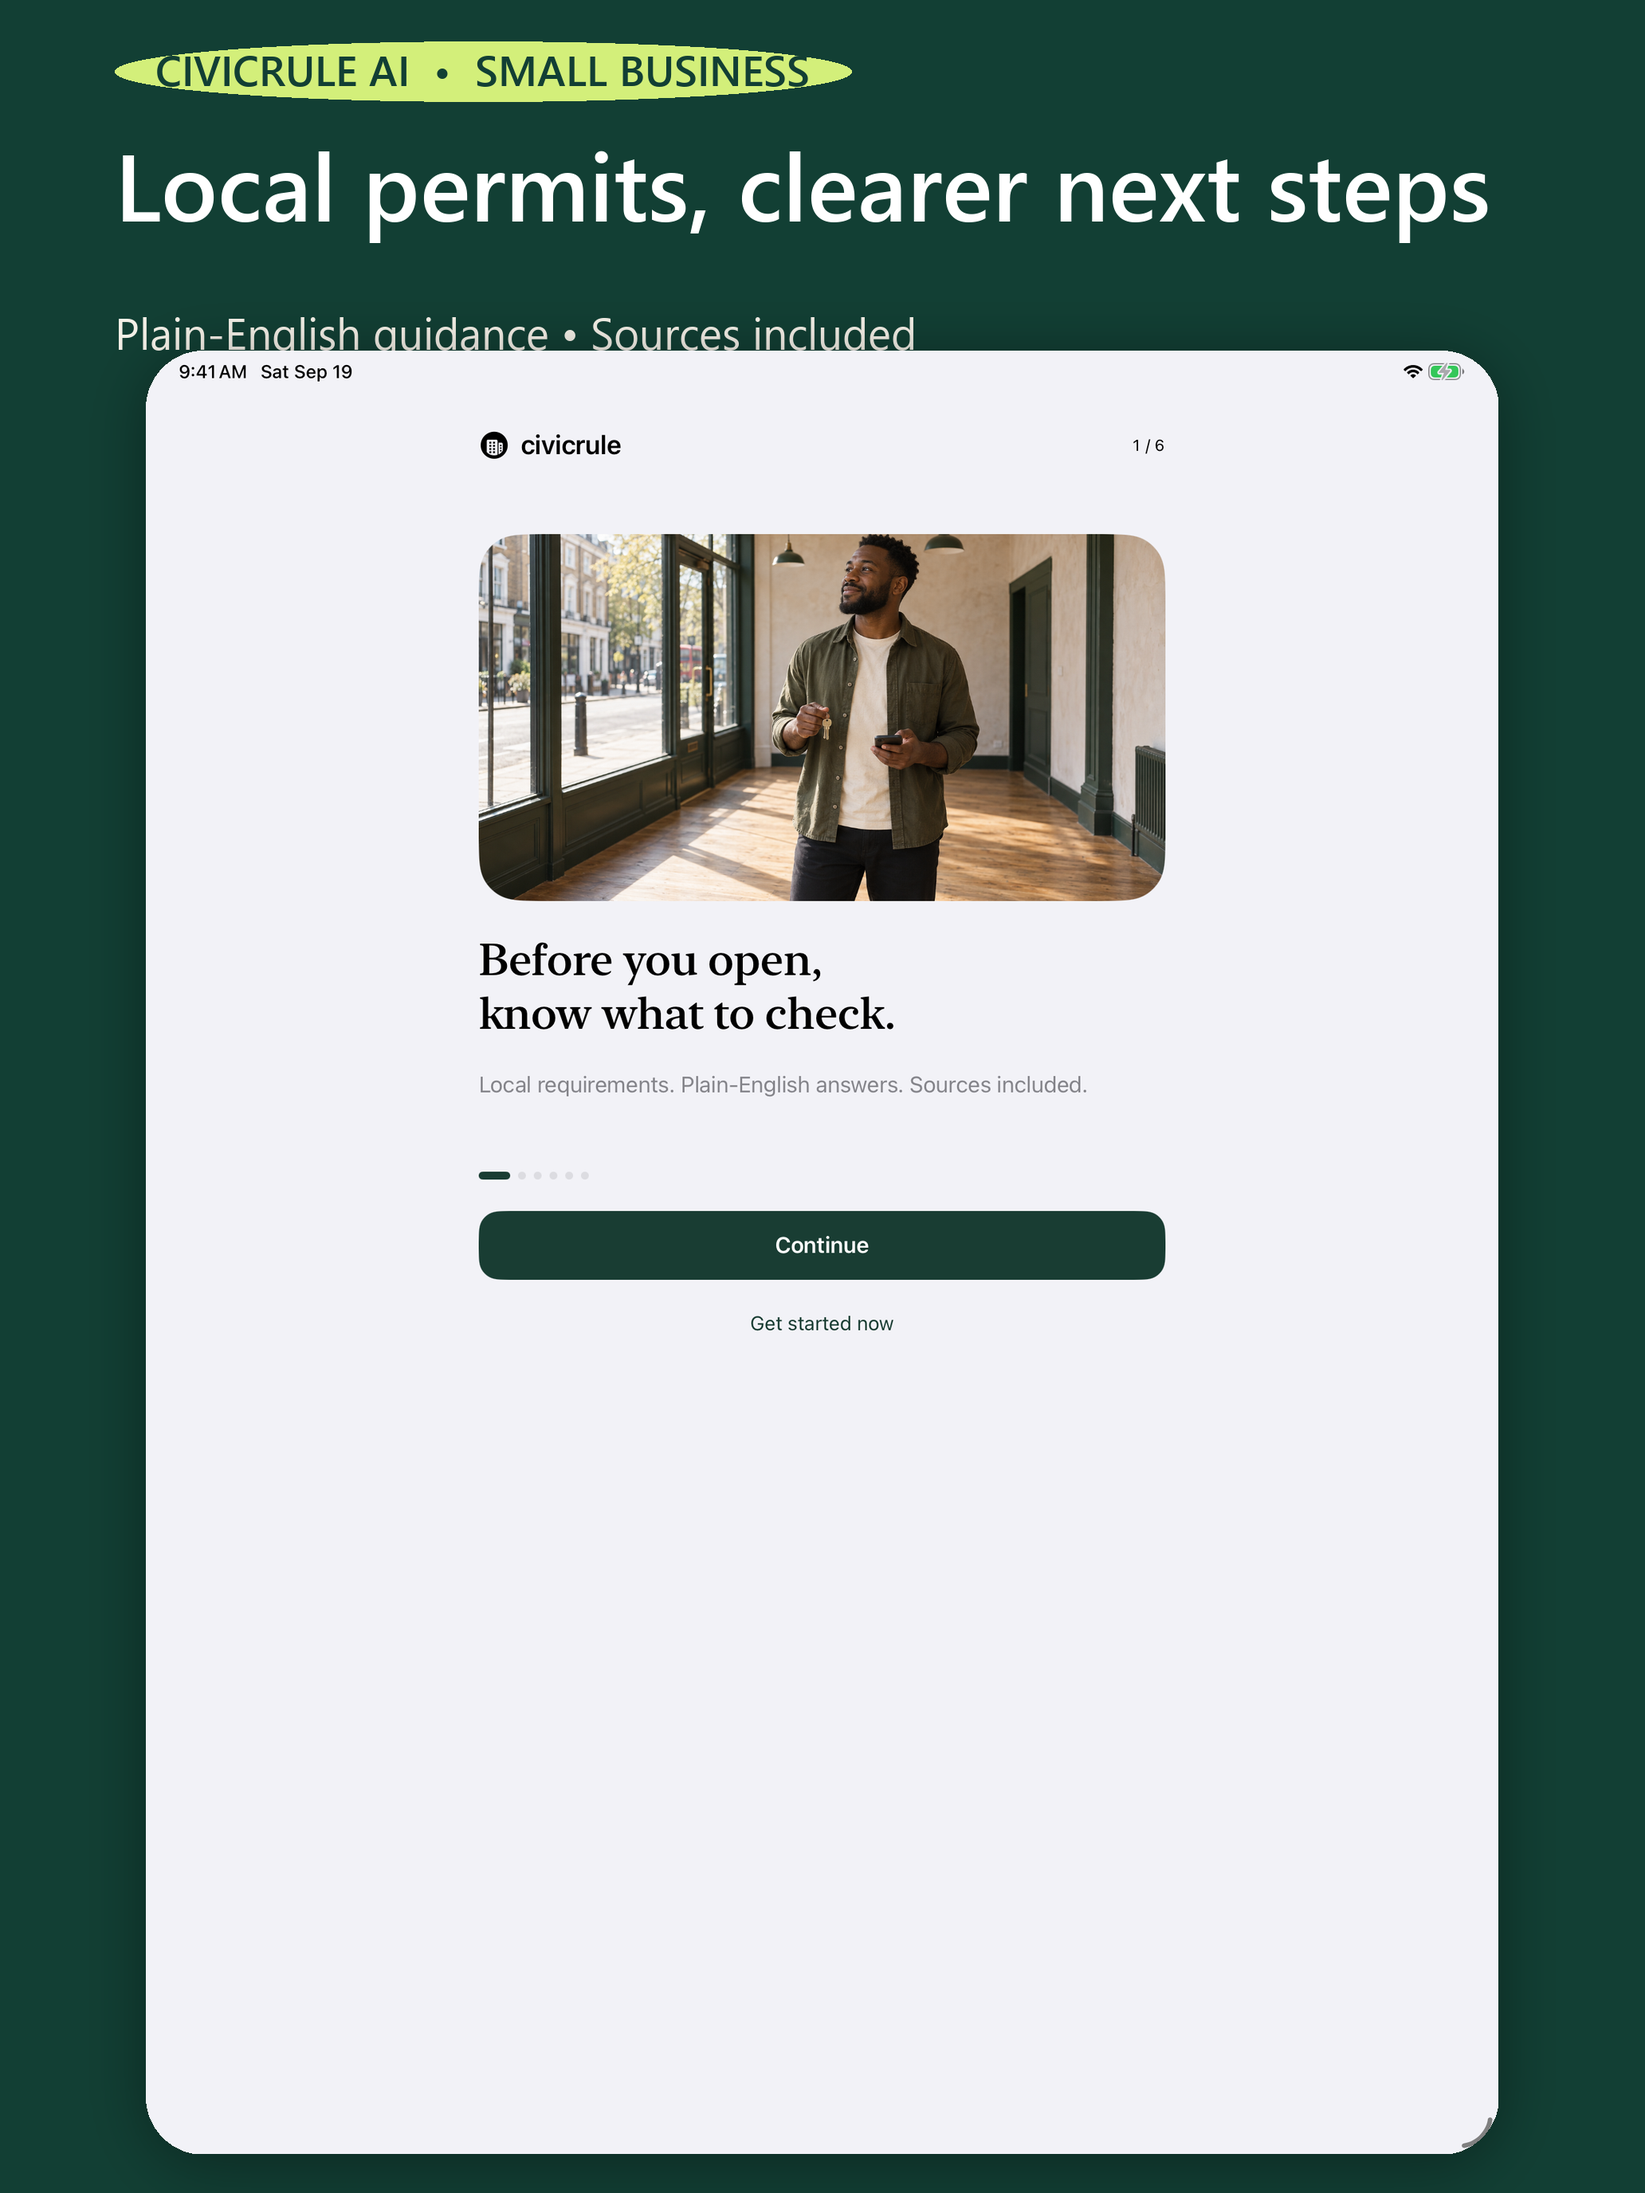
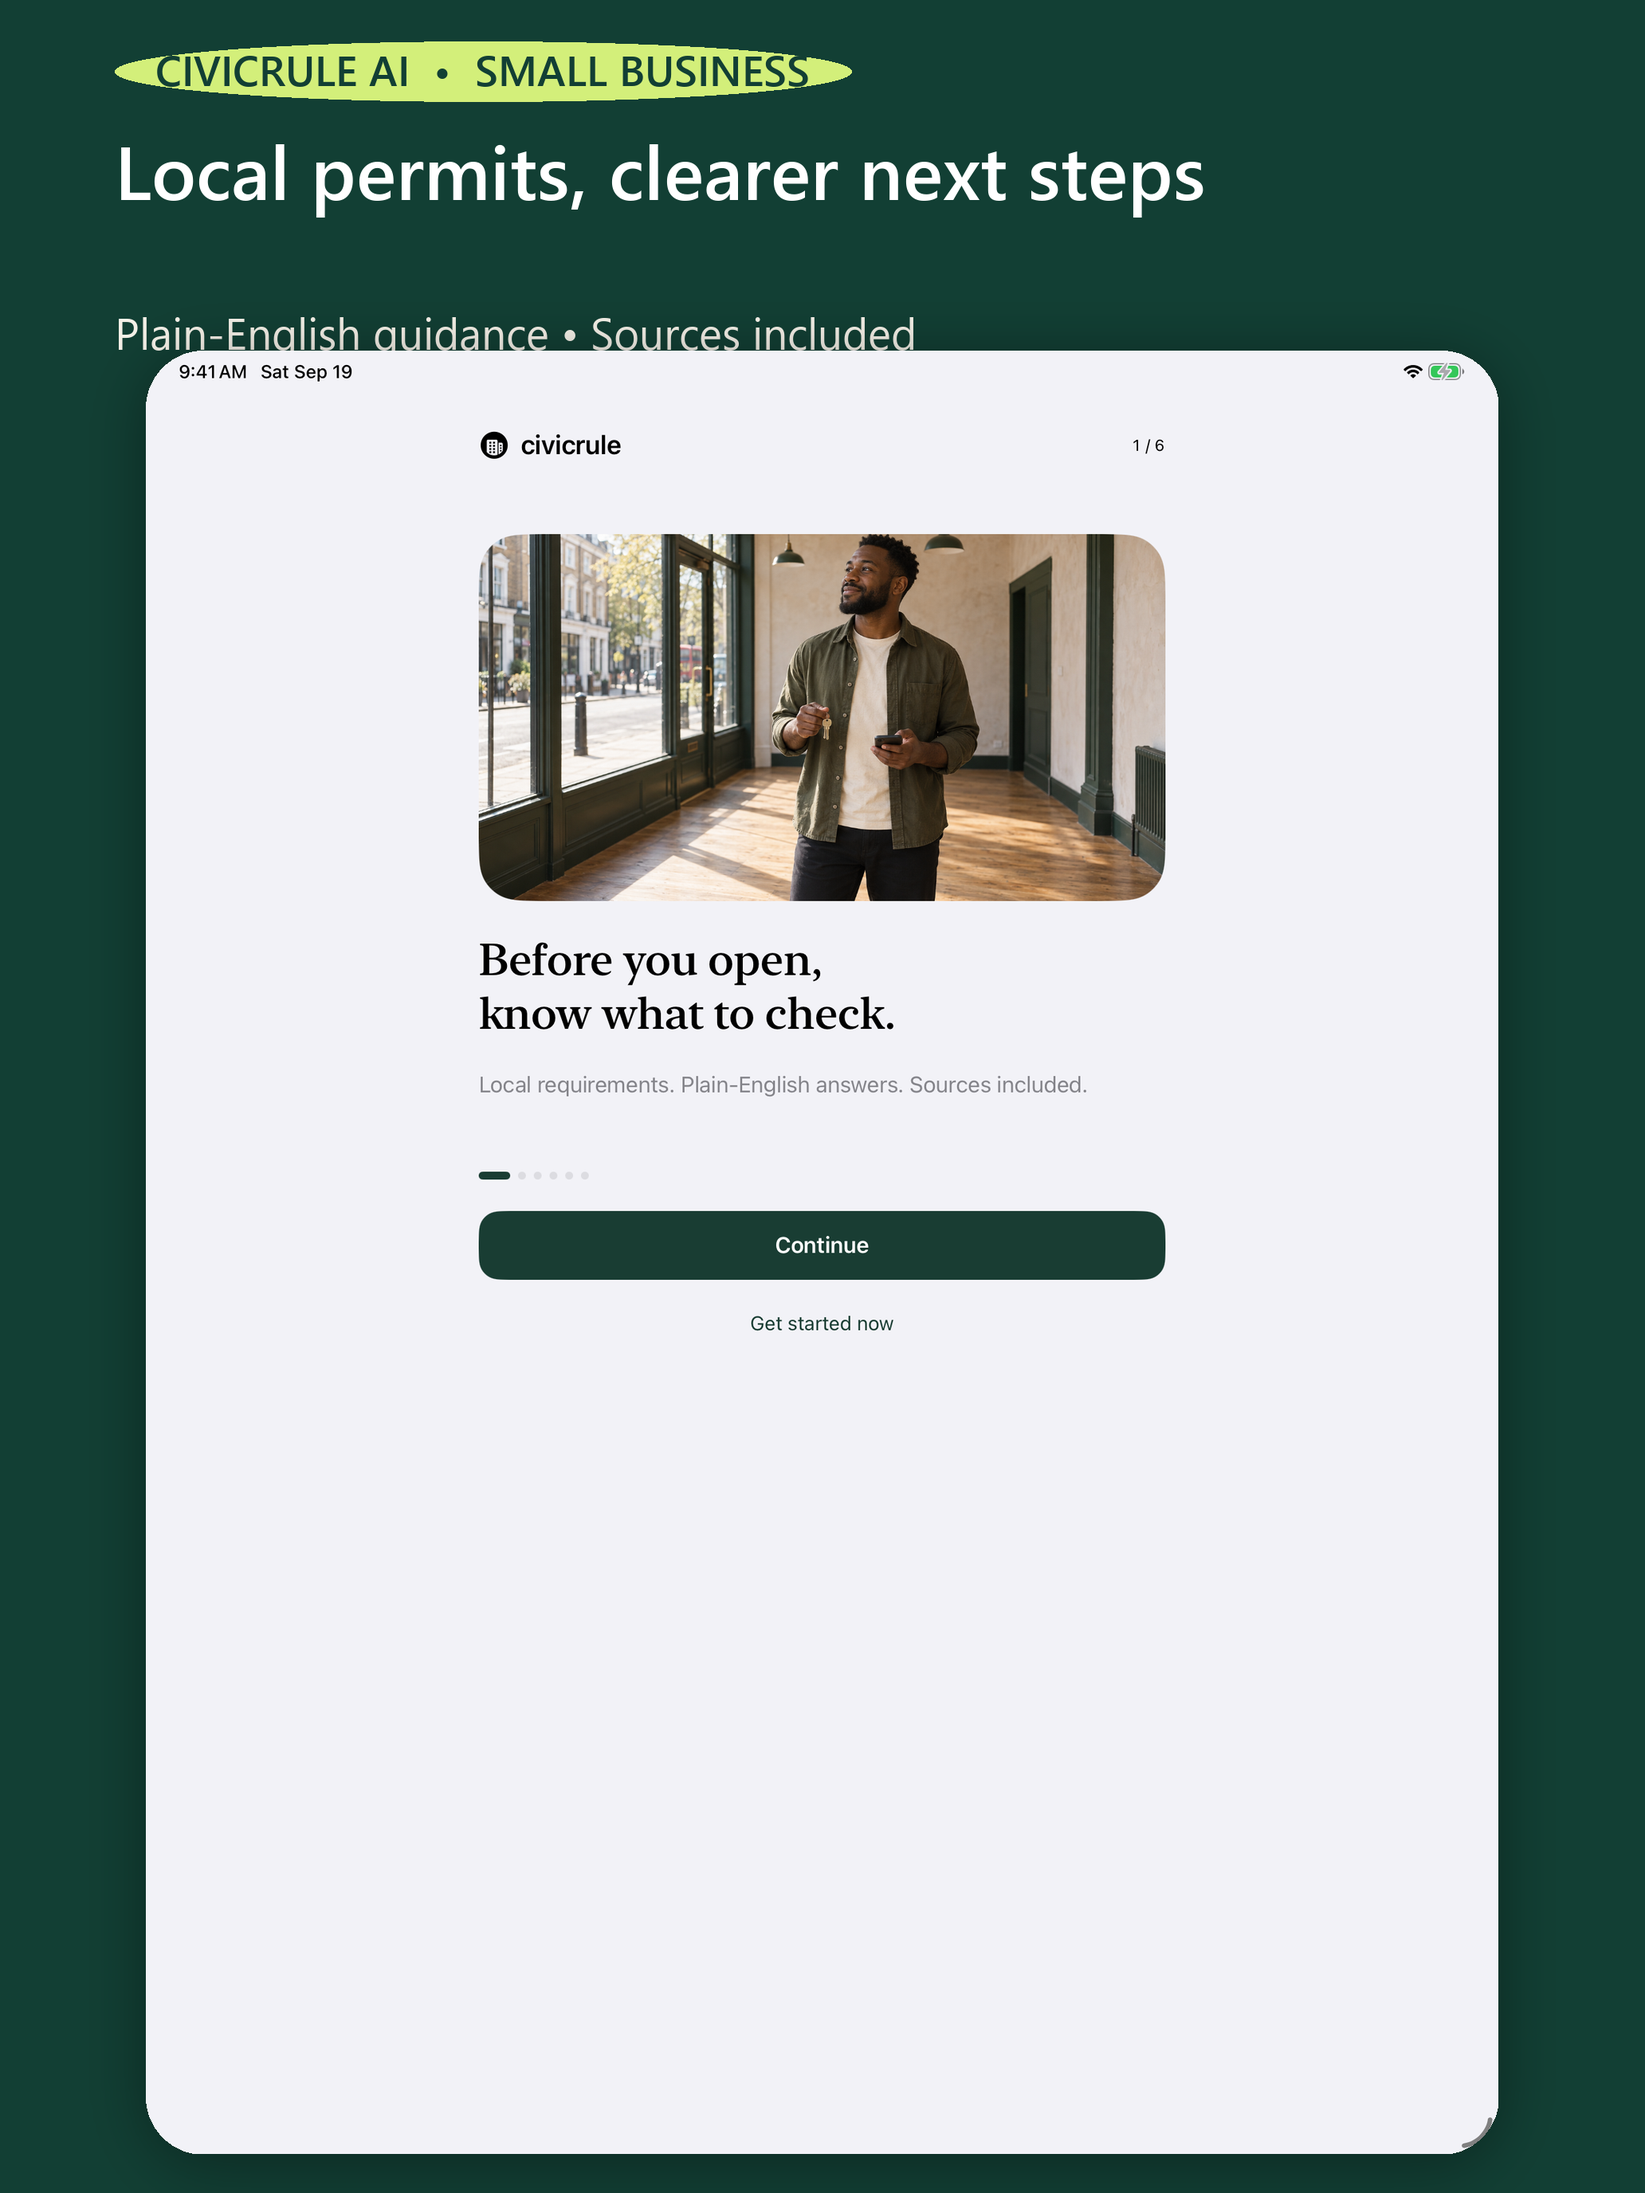
Add ten-screen App Store preview set

Changed region(s): [[0.062, 0.0625, 0.7442, 0.125], [0.7752, 0.0625, 0.8992, 0.125]]

diff --git a/scripts/compose_store_screenshots.py b/scripts/compose_store_screenshots.py
@@ -57,12 +57,16 @@ def wrap(draw: ImageDraw.ImageDraw, text: str, font: ImageFont.FreeTypeFont, max
 def compose(source: Path, destination: Path, headline: str, footer: str) -> None:
     shot = Image.open(source).convert("RGB")
     width, height = shot.size
-    header = int(height * (0.18 if width < height * 0.65 else 0.16))
+    is_tablet = width >= height * 0.65
+    header = int(height * (0.18 if not is_tablet else 0.16))
     canvas = Image.new("RGB", (width, height), FOREST)
     draw = ImageDraw.Draw(canvas)
     margin = int(width * 0.07)
     kicker_font = ImageFont.truetype(font_path(True), max(24, int(width * 0.026)))
-    headline_font = ImageFont.truetype(font_path(True), max(48, int(width * 0.058)))
+    # Tablet screenshots have a wider canvas, so the phone scale makes a
+    # two-line headline collide with the keyword line below it.
+    headline_scale = 0.046 if is_tablet else 0.058
+    headline_font = ImageFont.truetype(font_path(True), max(48, int(width * headline_scale)))
     footer_font = ImageFont.truetype(font_path(False), max(24, int(width * 0.027)))
 
     kicker = "CIVICRULE AI  •  SMALL BUSINESS"
